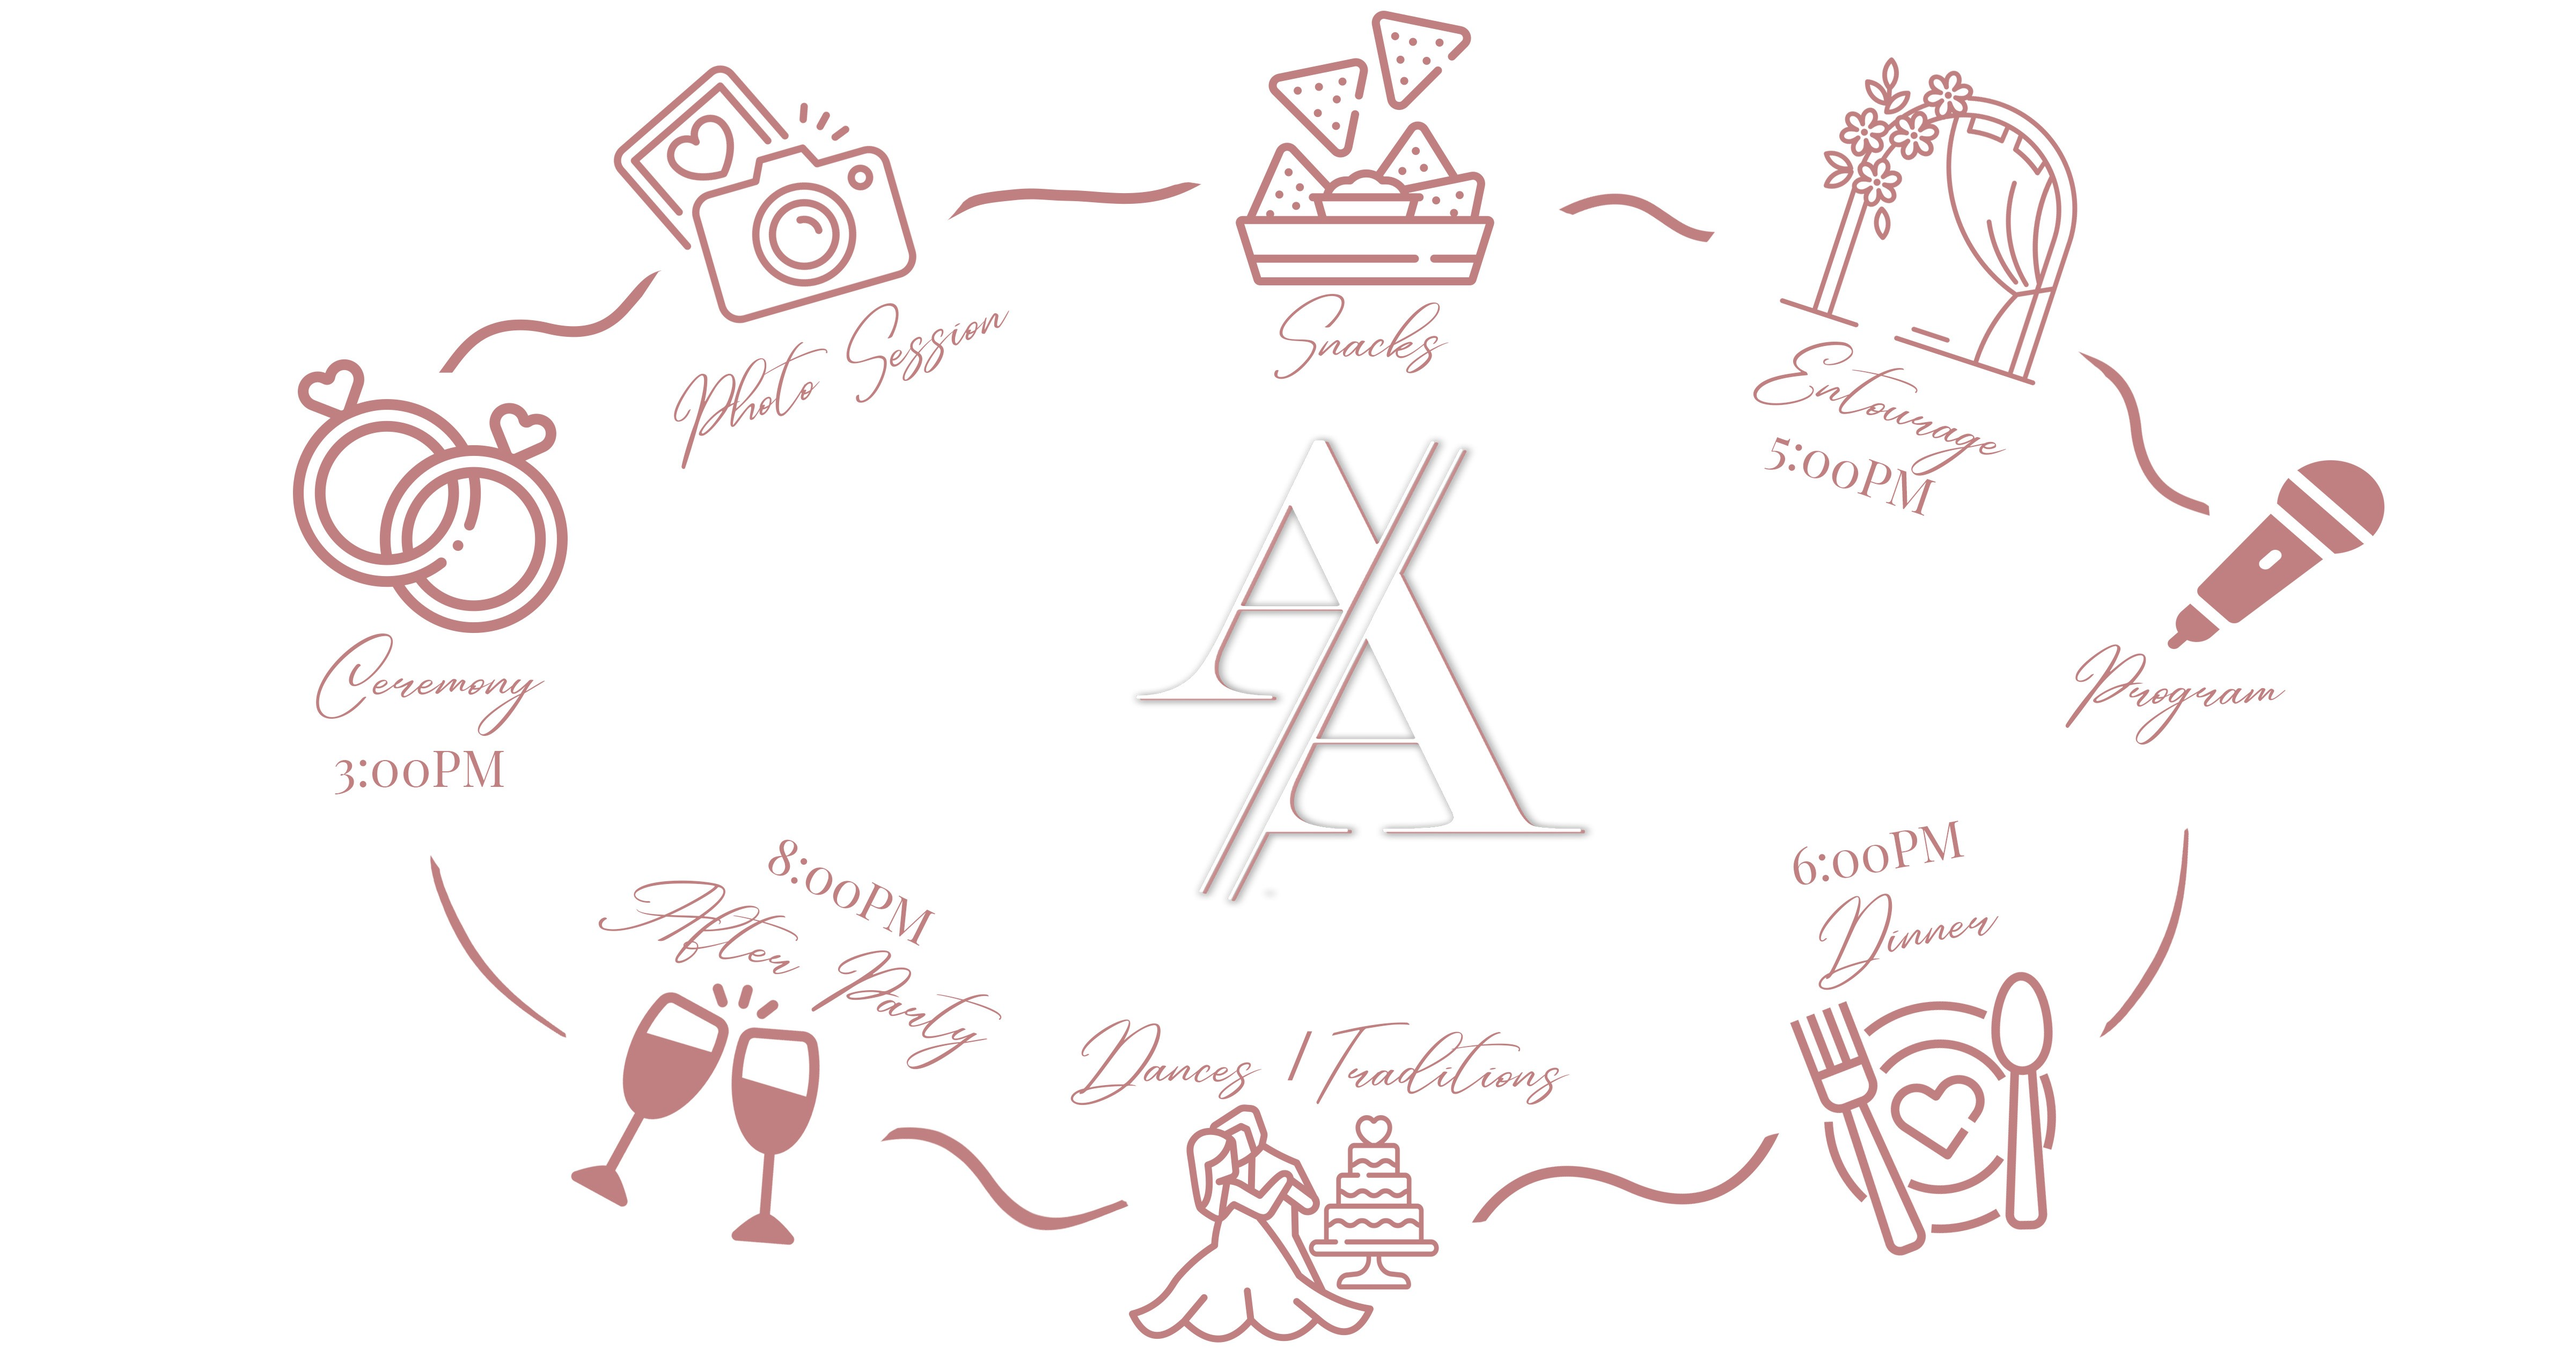
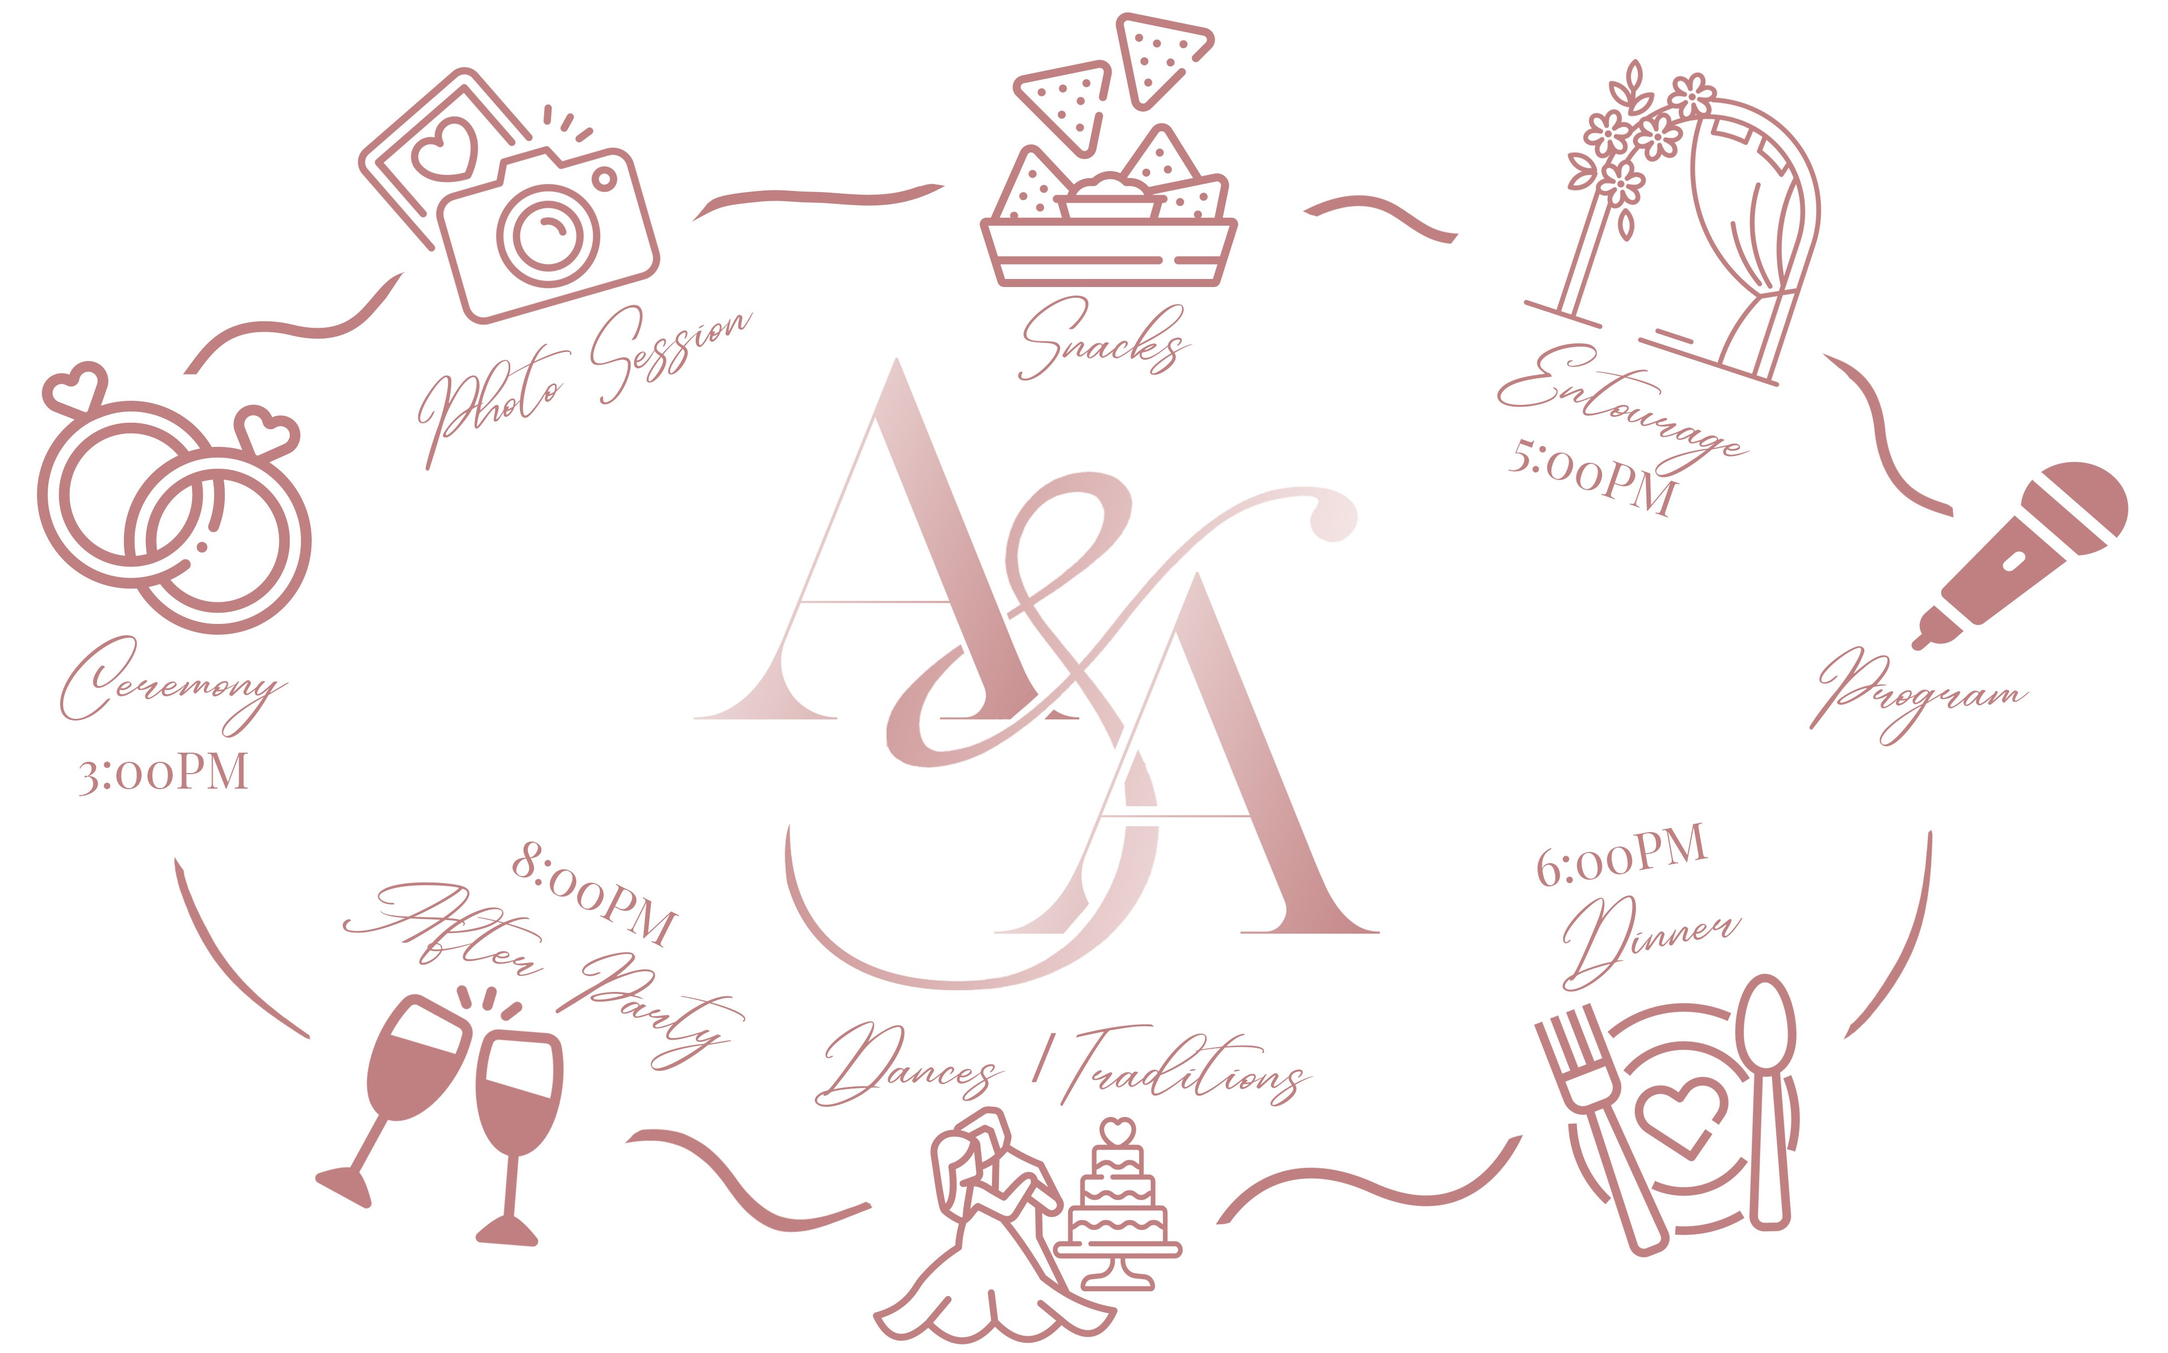
monogram changes and entourage

diff --git a/index.html b/index.html
@@ -250,11 +250,11 @@
 <!--											<span style="color: #000">Mr. Billy Jean Maon</span>-->
 <!--											<span style="color: #000">Mr. Reagan Cadiz</span>-->
 <!--											<span style="color: #000">Mr. Jerome Tejada</span>-->
-<!--											<span style="color: #000">Mr. Sammy Maglaya</span>-->
+<!--											<span style="color: #000">Mr. Samuel Maglaya</span>-->
 <!--											<span style="color: #000">Mr. Geronimo Babierra</span>-->
 <!--											<span style="color: #000">Mr. Guillermo Formaran III</span>-->
 <!--											<span style="color: #000">Mr. Virgilio De Luna</span>-->
-<!--											<span style="color: #000">TBA</span>-->
+<!--											<span style="color: #000">Engr. Ronnel Tan</span>-->
 <!--											<span style="color: #000">Mr. Gil Formaran</span>-->
 <!--										</div>-->
 
@@ -327,18 +327,18 @@
 
 <!--										<div class="event-col">-->
 <!--											<h4 style="color: #C08081">Bible Bearer</h4>-->
-<!--											<span style="color: #000">Sky Marco</span>-->
+<!--											<span style="color: #000">Stephen Klay Marco</span>-->
 <!--										</div>-->
 
 <!--										<div class="event-col">-->
 <!--											<h4 style="color: #C08081">Coin Bearer</h4>-->
-<!--											<span style="color: #000">Lian Xander Briones</span>-->
+<!--											<span style="color: #000">Reign Jaiden Inamarga</span>-->
 <!--										</div>-->
 
 <!--										<div class="col-md-12 text-center">-->
 <!--											<h4 style="color: #C08081">Flower Girls</h4>-->
-<!--											<span style="color: #000">Thea Maon</span>-->
-<!--											<span style="color: #000">Angel Maon</span>-->
+<!--											<span style="color: #000">Arthea Daniella Maon</span>-->
+<!--											<span style="color: #000">Chris Angel Maon</span>-->
 <!--										</div>-->
 <!--									</div>-->
 <!--								</div>-->
@@ -804,7 +804,7 @@
 
 
 												<div class="color-box" style="background-color: #C08081;"></div>
-												<div class="color-box" style="background-color: #B99498;"></div>
+												<div class="color-box" style="background-color: #E6C5C9;"></div>
 												<div class="color-box" style="background-color: #F5F5DC;"></div>
 												<div class="color-box" style="background-color: #FFFFF0;"></div>
 												<div class="color-box" style="background-color: #D3D3D3;"></div>
